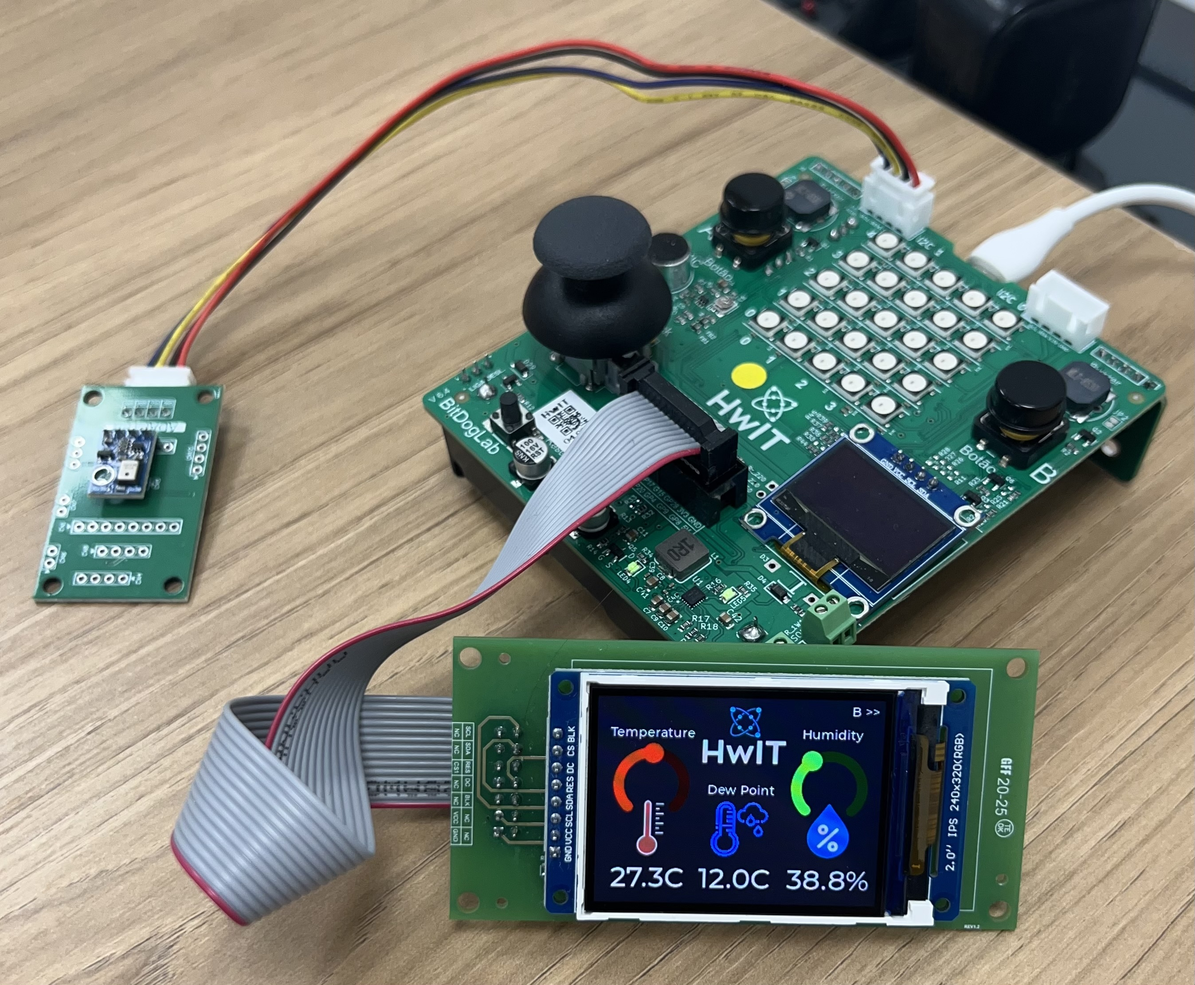
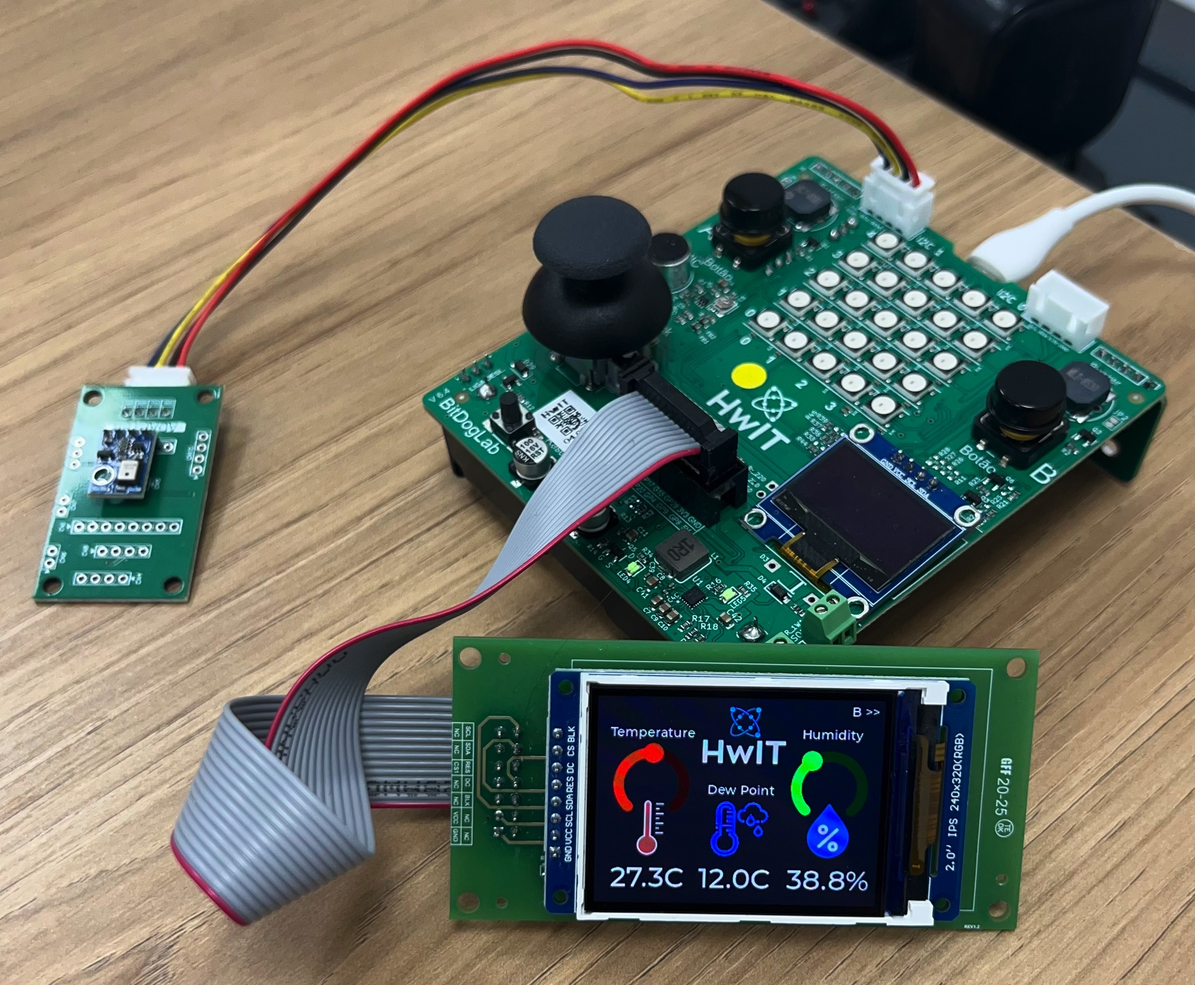
Refreshed image on c/c++ example 9: st7789 pio lcd LVGL humidity and temperature.

diff --git a/firmware/c_cpp/examples/9_st7789_pio_lcd_lvgl_hum_temp/README.md b/firmware/c_cpp/examples/9_st7789_pio_lcd_lvgl_hum_temp/README.md
@@ -36,7 +36,7 @@
 - AHT10 sensor module (visible on left)
 - Integrated joysticks and navigation buttons
 - Compact form factor suitable for embedded applications
-- 
+
 <img src="IMG_2977.jpg" width=75% height=75%>
 
 A real-time environmental monitoring system built with Raspberry Pi Pico W, featuring a 2-inch ST7789 LCD display with LVGL GUI designed in EEZ Studio. The system displays the HWIT (Hardware Innovation Technologies) branding and provides professional-grade environmental monitoring.
